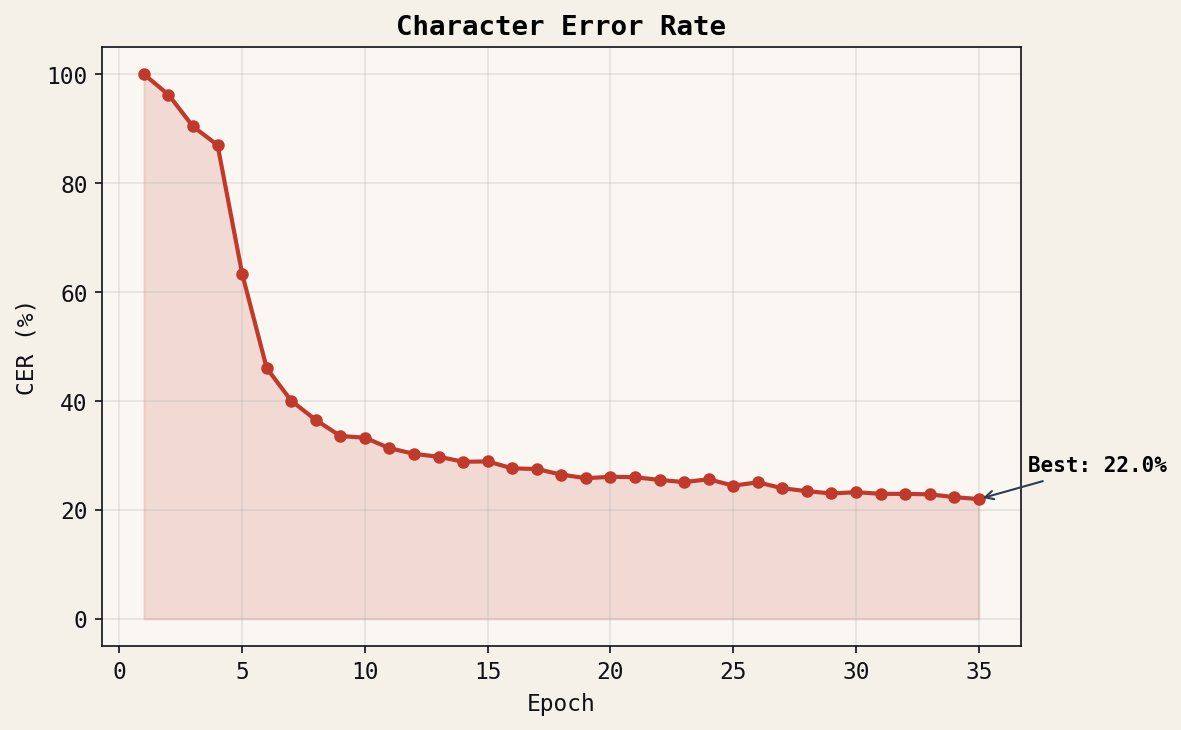
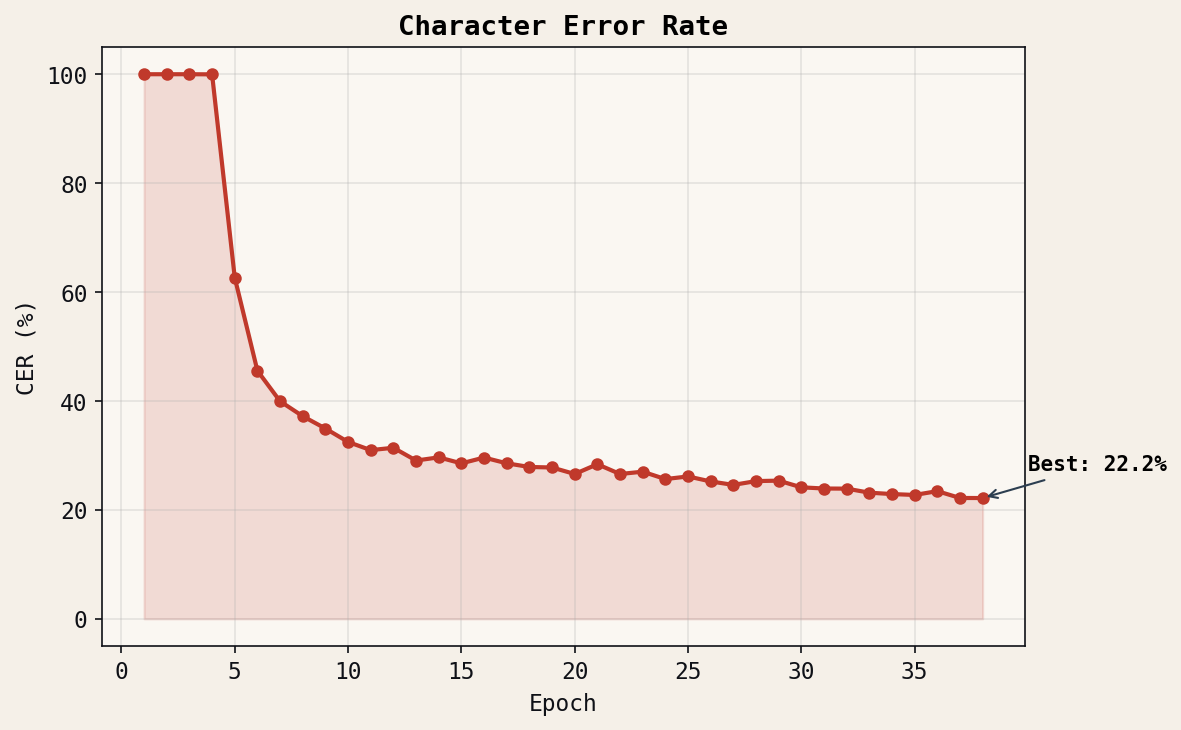
Add word segmentation, confusion matrix in training, updated plots
- Projection-based word segmentation for full-page images (predict.py)
- Ruled line & margin removal before segmentation
- Post-training confusion matrix generation (train.py)
- Character bigram LM saved to checkpoints/
- Updated training plots from latest run (55.9% acc, 22.2% CER)
- UI hint about word crops vs full pages

diff --git a/templates/index.html b/templates/index.html
@@ -283,8 +283,11 @@
   <div class="drop-zone" id="drop-zone">
     <div class="drop-icon">📋</div>
     <p class="drop-text">
-      Drag &amp; drop a prescription image here<br/>
-      or <strong id="browse-btn">browse files</strong>
+      Drag &amp; drop a handwriting image here<br/>
+      or <strong id="browse-btn">browse files</strong><br/>
+      <span style="font-size:0.65rem;opacity:0.4;margin-top:8px;display:inline-block;">
+        Works best with cropped words or short phrases &middot; Full pages are auto-segmented
+      </span>
     </p>
     <input type="file" id="file-input" accept="image/*"/>
   </div>

diff --git a/predict.py b/predict.py
@@ -15,6 +15,8 @@ import json
 import math
 from collections import defaultdict
 
+import cv2
+import numpy as np
 import torch
 import torch.nn.functional as F
 from PIL import Image
@@ -198,6 +200,121 @@ _lm_loaded = char_lm.load()
 if _lm_loaded:
     print("[predict] Character LM loaded for beam search rescoring")
 
+# ── Word segmentation ─────────────────────────────────────────────────────────
+def segment_words(pil_image):
+    """Segment a full-page image into individual word crops.
+
+    Strategy: detect text lines first via horizontal projection profile,
+    then split each line into words using vertical projection gaps.
+    This is much more robust than contour-based approaches on ruled paper.
+
+    Returns a list of PIL Image crops.
+    """
+    img = np.array(pil_image.convert("L"))  # grayscale
+    img_h, img_w = img.shape
+
+    # Binarize: Otsu threshold (works well for document images)
+    _, binary = cv2.threshold(img, 0, 255, cv2.THRESH_BINARY_INV + cv2.THRESH_OTSU)
+
+    # Remove long horizontal lines (ruled notebook paper)
+    h_line_kernel = cv2.getStructuringElement(cv2.MORPH_RECT, (img_w // 3, 1))
+    h_lines = cv2.morphologyEx(binary, cv2.MORPH_OPEN, h_line_kernel)
+    binary = cv2.subtract(binary, h_lines)
+
+    # Remove long vertical lines (margins)
+    v_line_kernel = cv2.getStructuringElement(cv2.MORPH_RECT, (1, img_h // 3))
+    v_lines = cv2.morphologyEx(binary, cv2.MORPH_OPEN, v_line_kernel)
+    binary = cv2.subtract(binary, v_lines)
+
+    # Clean noise
+    binary = cv2.medianBlur(binary, 3)
+
+    # ── Step 1: Find text lines via horizontal projection ─────────────────
+    # Sum ink pixels per row
+    h_proj = binary.sum(axis=1) / 255
+
+    # Threshold: a row has text if it has more than 1% of width in ink
+    text_thresh = img_w * 0.01
+    line_regions = []
+    in_line = False
+    start = 0
+    for y in range(img_h):
+        if h_proj[y] > text_thresh and not in_line:
+            start = y
+            in_line = True
+        elif h_proj[y] <= text_thresh and in_line:
+            if y - start > img_h * 0.008:  # minimum line height
+                line_regions.append((start, y))
+            in_line = False
+    if in_line and img_h - start > img_h * 0.008:
+        line_regions.append((start, img_h))
+
+    if not line_regions:
+        return [pil_image]
+
+    # Merge lines that are very close (e.g. ascenders/descenders split a line)
+    merged_lines = [line_regions[0]]
+    for start, end in line_regions[1:]:
+        prev_start, prev_end = merged_lines[-1]
+        gap = start - prev_end
+        prev_height = prev_end - prev_start
+        if gap < prev_height * 0.3:
+            merged_lines[-1] = (prev_start, end)
+        else:
+            merged_lines.append((start, end))
+
+    # ── Step 2: Split each line into words via vertical projection ────────
+    crops = []
+    for line_y0, line_y1 in merged_lines:
+        # Add vertical padding
+        pad_y = max(2, int((line_y1 - line_y0) * 0.15))
+        ly0 = max(0, line_y0 - pad_y)
+        ly1 = min(img_h, line_y1 + pad_y)
+
+        line_strip = binary[line_y0:line_y1, :]
+        v_proj = line_strip.sum(axis=0) / 255
+
+        # Find word regions: contiguous columns with ink
+        word_thresh = (line_y1 - line_y0) * 0.02
+        word_regions = []
+        in_word = False
+        wx_start = 0
+        for x in range(img_w):
+            if v_proj[x] > word_thresh and not in_word:
+                wx_start = x
+                in_word = True
+            elif v_proj[x] <= word_thresh and in_word:
+                if x - wx_start > img_w * 0.008:  # minimum word width
+                    word_regions.append((wx_start, x))
+                in_word = False
+        if in_word and img_w - wx_start > img_w * 0.008:
+            word_regions.append((wx_start, img_w))
+
+        # Merge word segments that are very close (same word, thin gap)
+        if word_regions:
+            merged_words = [word_regions[0]]
+            line_height = line_y1 - line_y0
+            # Gap threshold: less than ~60% of average line height = same word
+            gap_thresh = line_height * 0.6
+            for wx0, wx1 in word_regions[1:]:
+                prev_x0, prev_x1 = merged_words[-1]
+                if wx0 - prev_x1 < gap_thresh:
+                    merged_words[-1] = (prev_x0, wx1)
+                else:
+                    merged_words.append((wx0, wx1))
+
+            for wx0, wx1 in merged_words:
+                pad_x = max(3, int((wx1 - wx0) * 0.05))
+                cx0 = max(0, wx0 - pad_x)
+                cx1 = min(img_w, wx1 + pad_x)
+                crop = pil_image.crop((cx0, ly0, cx1, ly1))
+                # Skip tiny crops that are likely noise
+                if crop.size[0] > 15 and crop.size[1] > 10:
+                    crops.append(crop)
+
+    return crops if crops else [pil_image]
+
+
 # ── TTA transforms ────────────────────────────────────────────────────────────
 # Light augmentations for test-time augmentation: slightly different perspectives
 # of the same image to reduce prediction variance.
@@ -247,6 +364,9 @@ _tta_transforms = [
 def predict_pil(pil_image, use_beam=True, beam_width=10, use_tta=True, lm_weight=0.3):
     """Run prediction on a PIL Image and return decoded text.
 
+    If the image is large (likely a full page), segment it into word crops
+    first and predict each one. Otherwise treat it as a single word crop.
+
     Args:
         pil_image: PIL Image to recognize.
         use_beam: If True, use beam search (more accurate). If False, greedy.
@@ -254,6 +374,25 @@ def predict_pil(pil_image, use_beam=True, beam_width=10, use_tta=True, lm_weight
         use_tta: If True, run test-time augmentation (5 views, averaged logits).
         lm_weight: Weight for character LM rescoring in beam search.
     """
+    # Segment into word crops if the image is large enough to be a full page
+    w, h = pil_image.size
+    if w > 300 or h > 150:
+        crops = segment_words(pil_image)
+    else:
+        crops = [pil_image]
+
+    # Predict each crop and join
+    words = []
+    for crop in crops:
+        text = _predict_single(crop, use_beam, beam_width, use_tta, lm_weight)
+        if text.strip():
+            words.append(text.strip())
+
+    return " ".join(words) if words else ""
+
+
+def _predict_single(pil_image, use_beam=True, beam_width=10, use_tta=True, lm_weight=0.3):
+    """Predict a single word crop."""
     if use_tta:
         # Run inference on multiple augmented views, average the log-probs
         all_outputs = []
